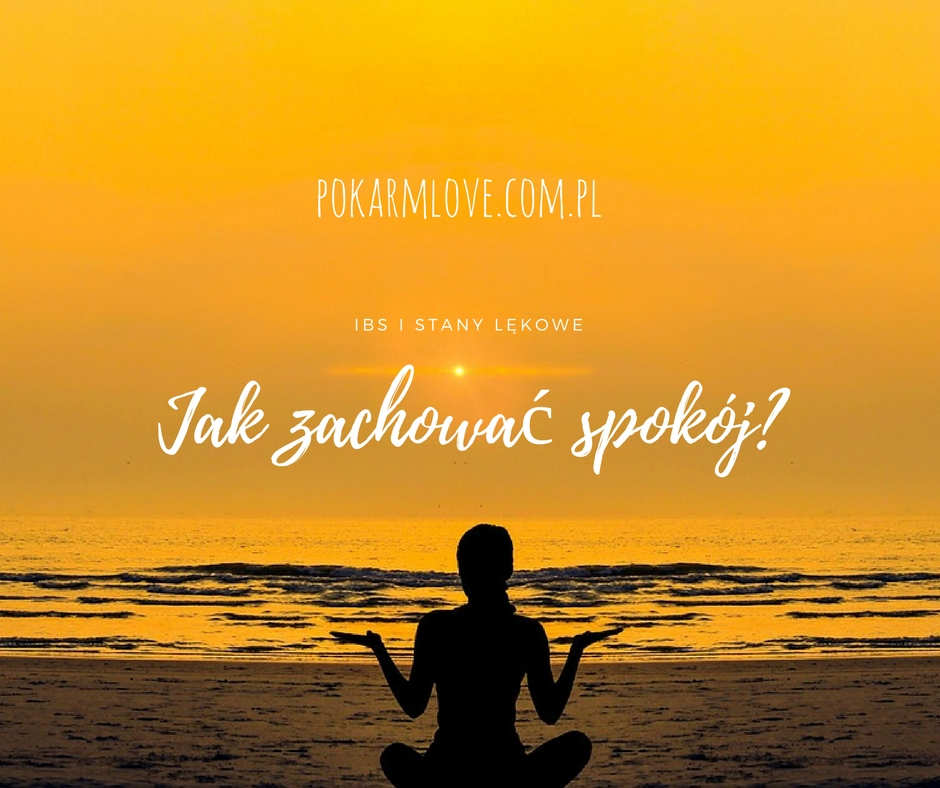
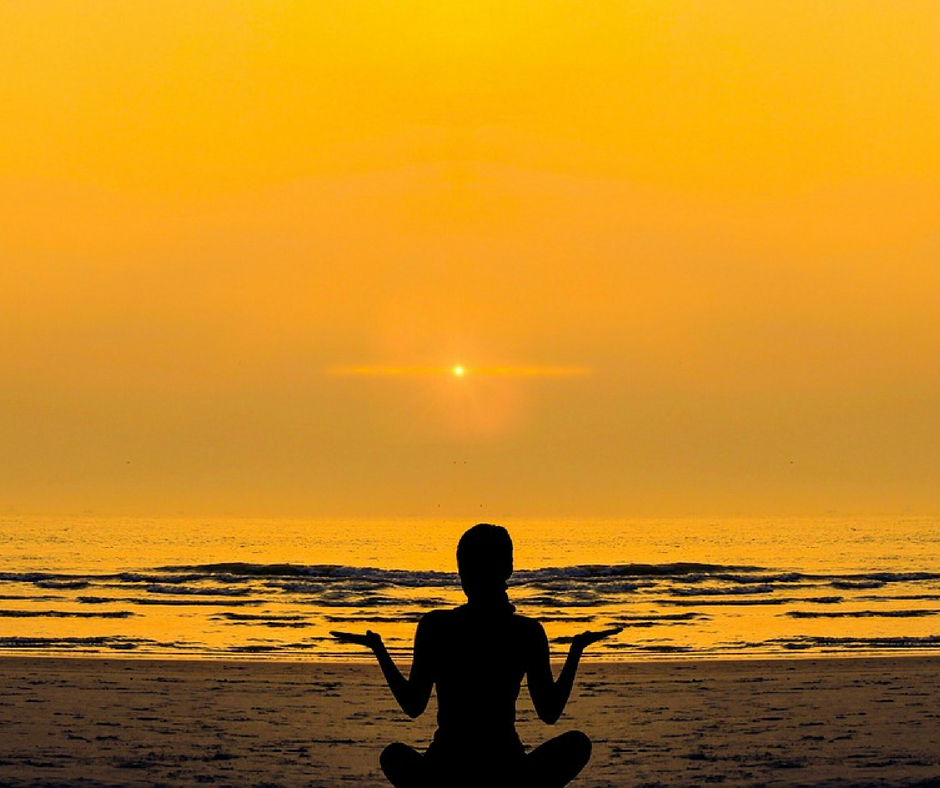
k

diff --git a/_posts/2018-02-22-sposoby-na-relaks.md b/_posts/2018-02-22-sposoby-na-relaks.md
@@ -3,7 +3,7 @@ layout: post
 title:  "Sposoby na relaks przy IBS i stanach lękowych,"
 subtitle: czyli jak poradzić sobie z chorobą i żyć pełnią życia.
 date:   2018-02-22
-facebook: assets/img/relaks/tytul.jpg
+facebook: assets/img/relaks/polecane.jpg
 project: true
 comments: true
 ---
